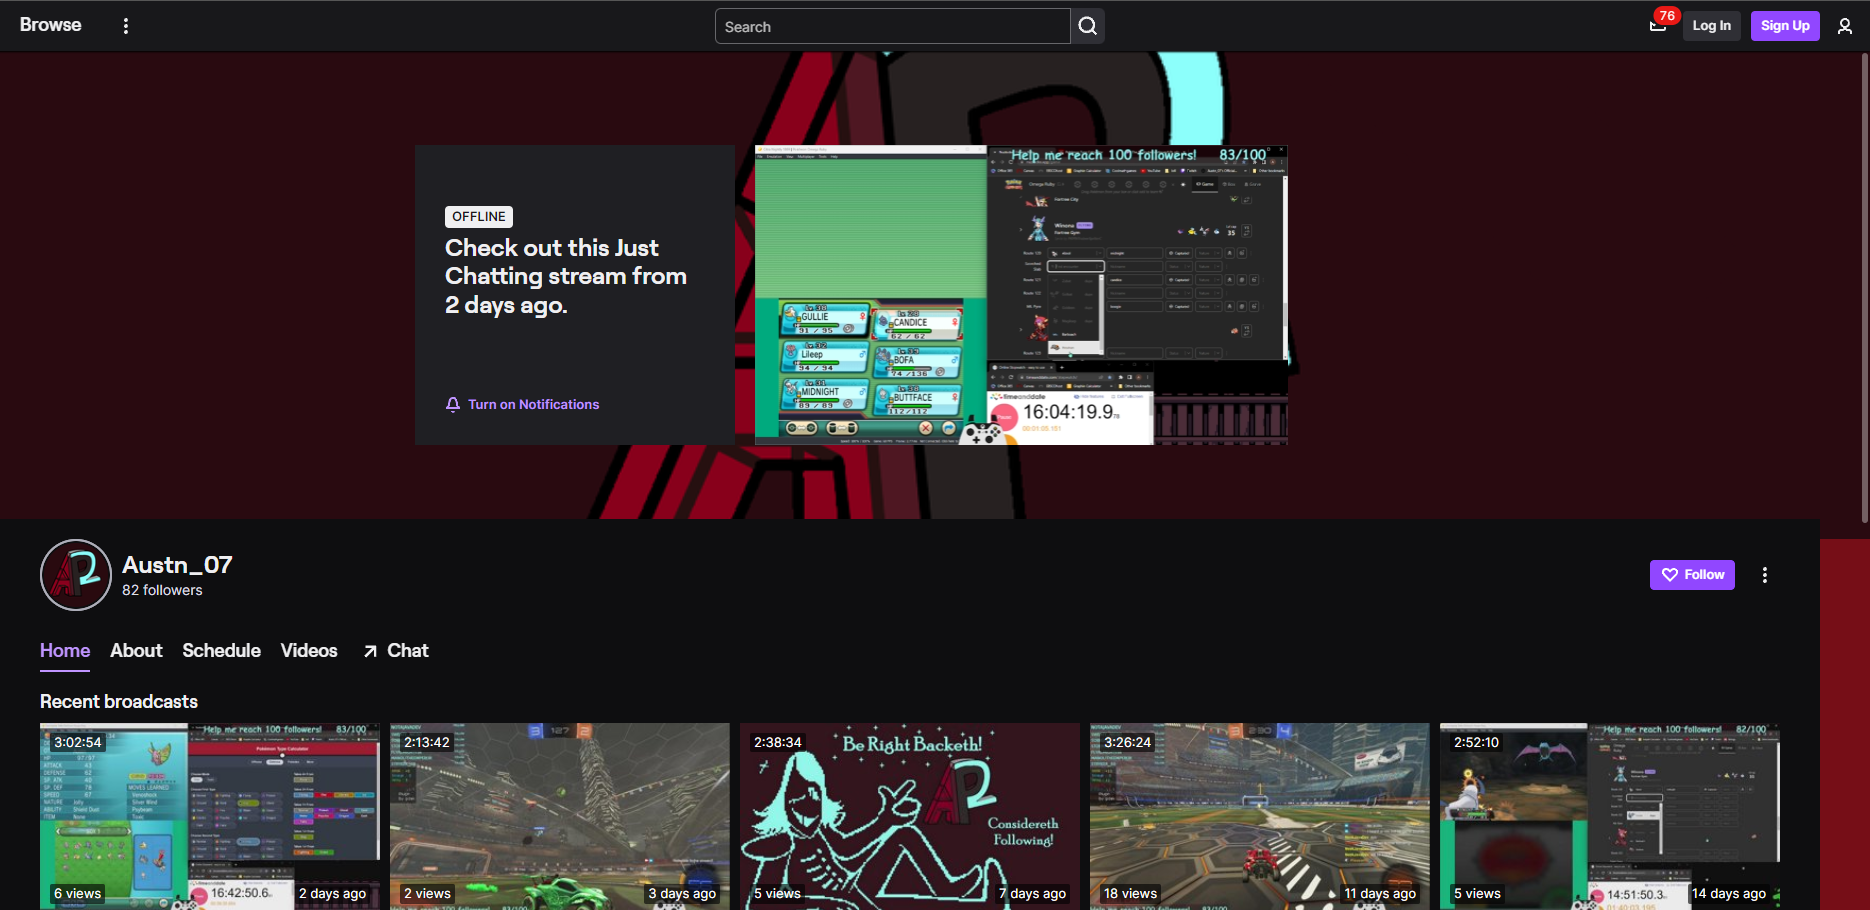
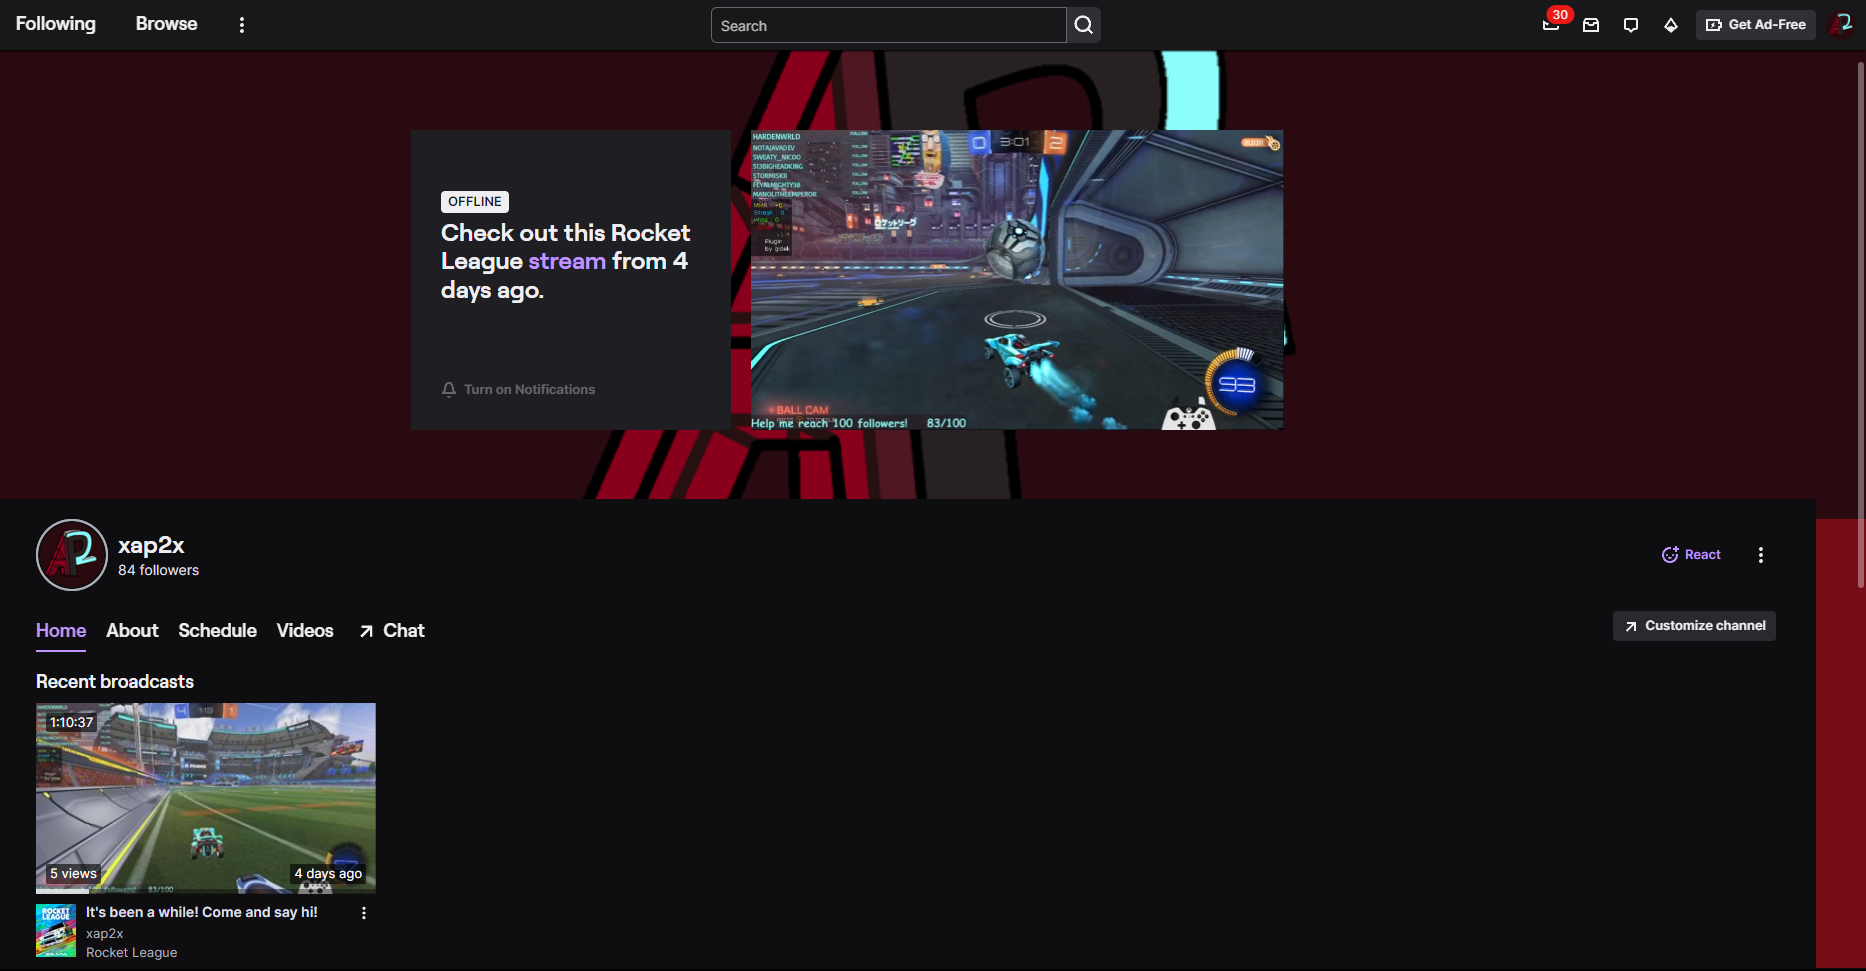
screenshot change

diff --git a/stream.html b/stream.html
@@ -107,7 +107,7 @@
                                     <span class="section-heading-lower">Twitch</span>
                                 </h2>
                                 <p>Seems like Twitch doesn't like me showing my account on an iframe for some reason, so I had to make do with a screenshot of my page. Oh well, here's a button that you can click on to visit to my Twitch page as well:</p>
-								<div class="intro-button mx-auto"><a class="btn btn-primary btn-xl" href="https://www.twitch.tv/austn_07">My Twitch</a></div>
+								<div class="intro-button mx-auto"><a class="btn btn-primary btn-xl" href="https://www.twitch.tv/xap2x">My Twitch</a></div>
 							</div>
                         </div>
                     </div>

diff --git a/gallery.html b/gallery.html
@@ -101,7 +101,7 @@
                             <span class="section-heading-lower">Instagram!</span>
                         </h2>
                         <p class="mb-3">For more of the artworks that I have done, make sure to check out my Instagram Page!</p>
-                        <div class="intro-button mx-auto"><a class="btn btn-primary btn-xl" href="https://www.instagram.com/austn_07_clips_and_art/">My Insta</a></div>
+                        <div class="intro-button mx-auto"><a class="btn btn-primary btn-xl" href="https://www.instagram.com/ap2_clips_and_art/">My Insta</a></div>
                     </div>
                 </div>
             </div>
